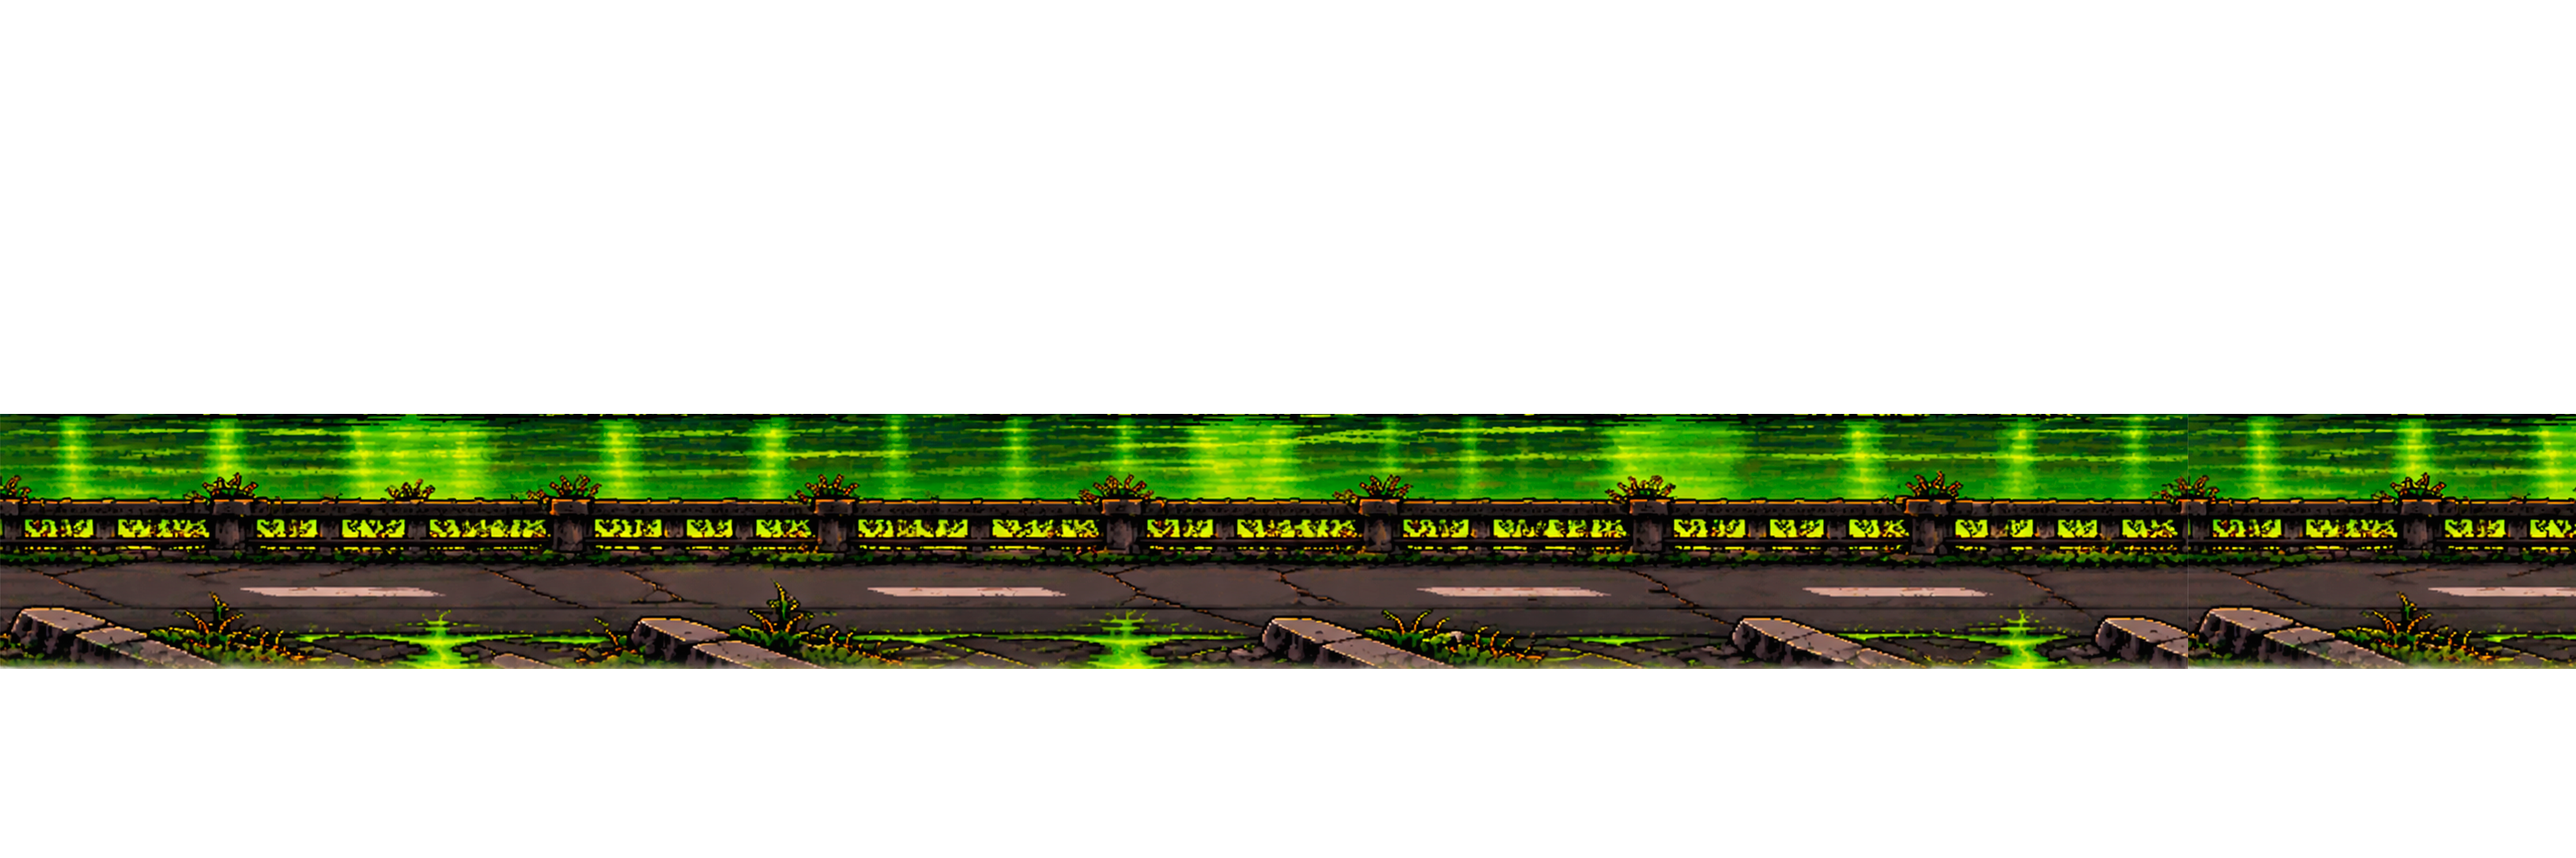
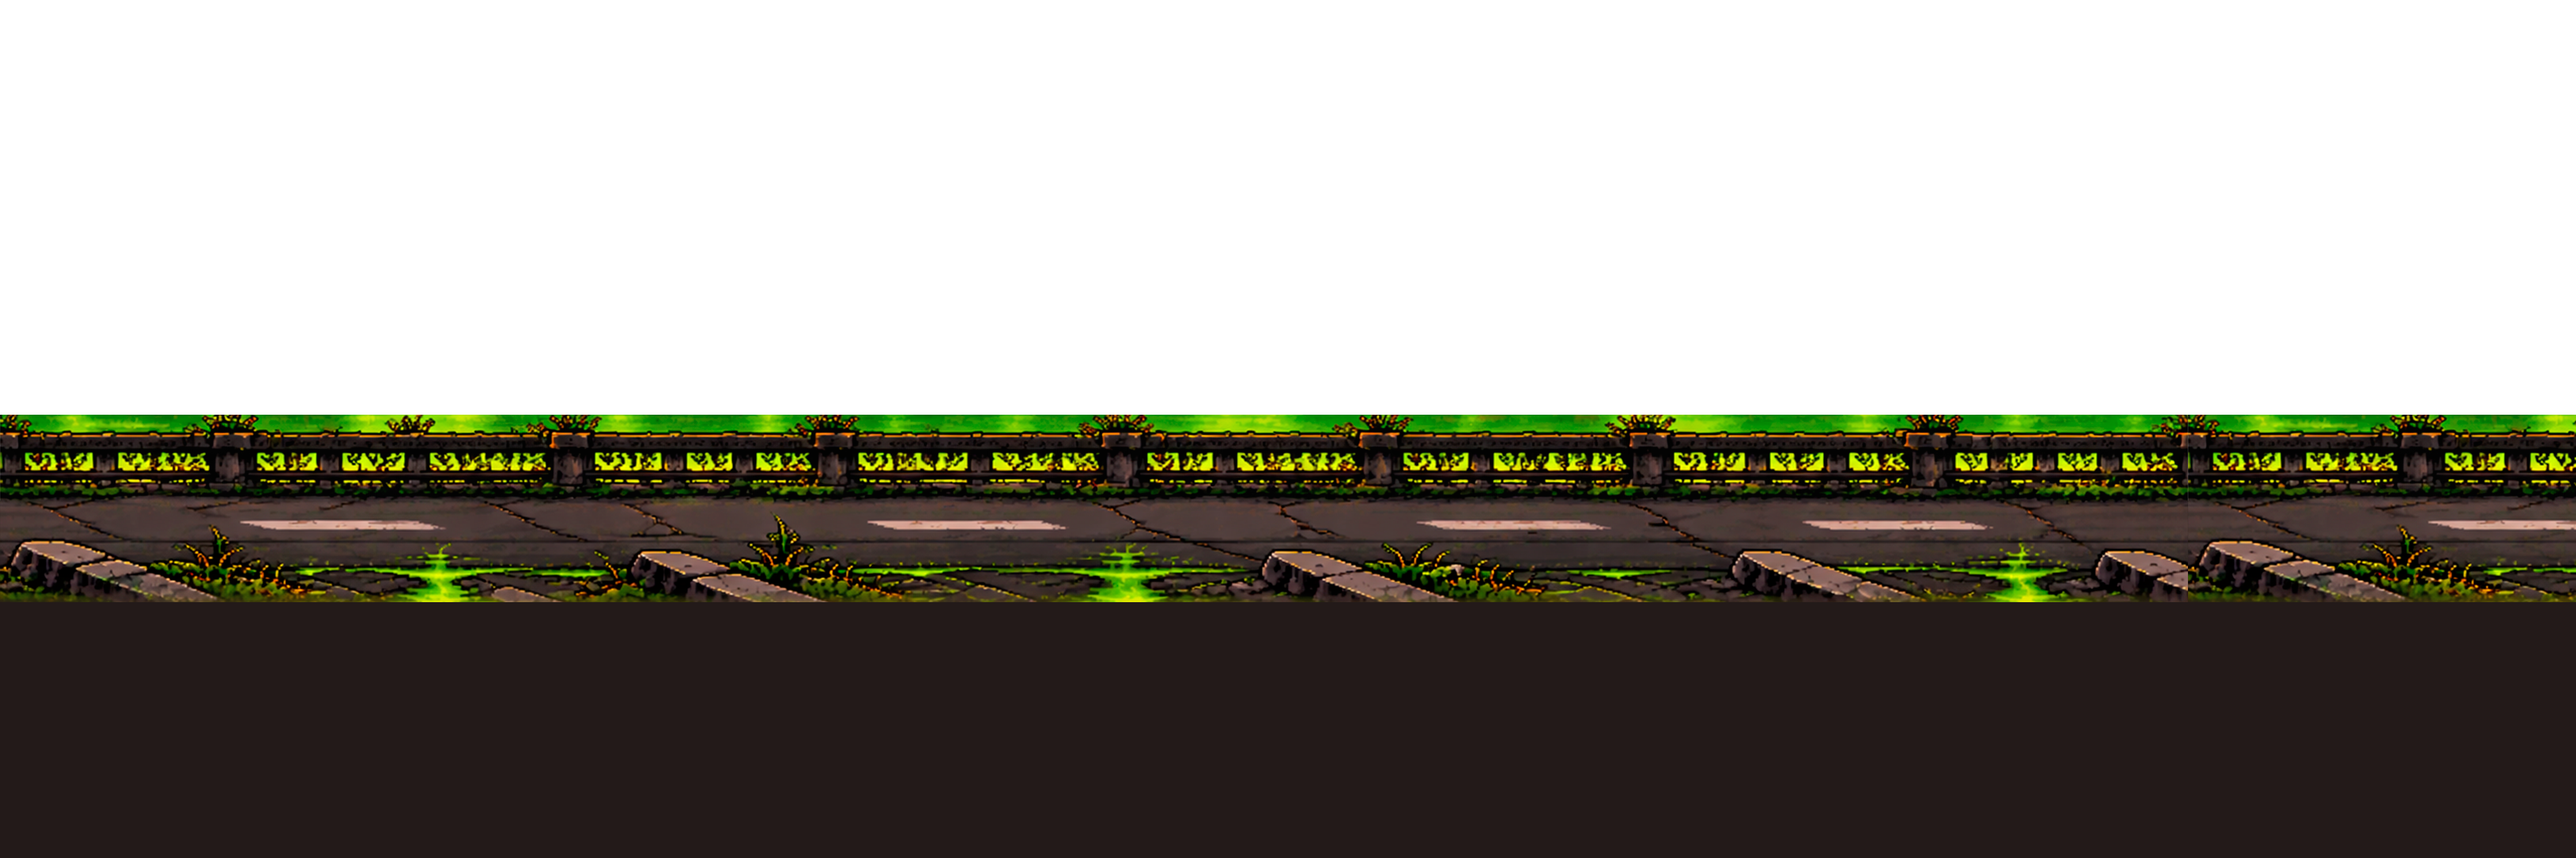
fix: ajusta posicionamento da segunda pista

diff --git a/src/main.ts b/src/main.ts
@@ -28,7 +28,7 @@ document.body.appendChild(app.canvas);
 
 // Cada parte do mapa tem 2048px de largura.
 // Duas partes formam um mundo contínuo de 4096px.
-const ROAD_WIDTH = 3240;
+const ROAD_WIDTH = 3040;
 
 const WORLD_LEFT = 0;
 const WORLD_RIGHT = ROAD_WIDTH * 2;
@@ -117,6 +117,10 @@ cityLayer.addChild(city2);
 // MAPA - PISTA
 // =================================
 
+// =================================
+// MAPA - PISTA
+// =================================
+
 const roadTexture =
   await Assets.load<Texture>(
     '/assets/map/road.png'
@@ -127,25 +131,43 @@ const roadTexture2 =
     '/assets/map/road-2.png'
   );
 
-const road =
-  new Sprite(roadTexture);
+console.log(
+  'ROAD 1:',
+  roadTexture.width,
+  roadTexture.height
+);
 
-const road2 =
-  new Sprite(roadTexture2);
+console.log(
+  'ROAD 2:',
+  roadTexture2.width,
+  roadTexture2.height
+);
 
-// Parte 1
+const road = new Sprite(
+  roadTexture
+);
+
 road.x = 0;
 road.y = 0;
 
-// Parte 2
-road2.x = ROAD_WIDTH;
-road2.y = 0;
+const road2 = new Sprite(
+  roadTexture2
+);
 
-// As duas pistas têm exatamente
-// 3240 × 1080.
-// Não redimensionar.
+road2.x = 3240;
+
+// Alinha a parte inferior da segunda pista
+// exatamente com o chão do jogo.
+road2.y = 40;
+
 world.addChild(road);
 world.addChild(road2);
+
+console.log(
+  'ROAD 2 POSIÇÃO:',
+  road2.x,
+  road2.y
+);
 
 // =================================
 // PLATAFORMAS
